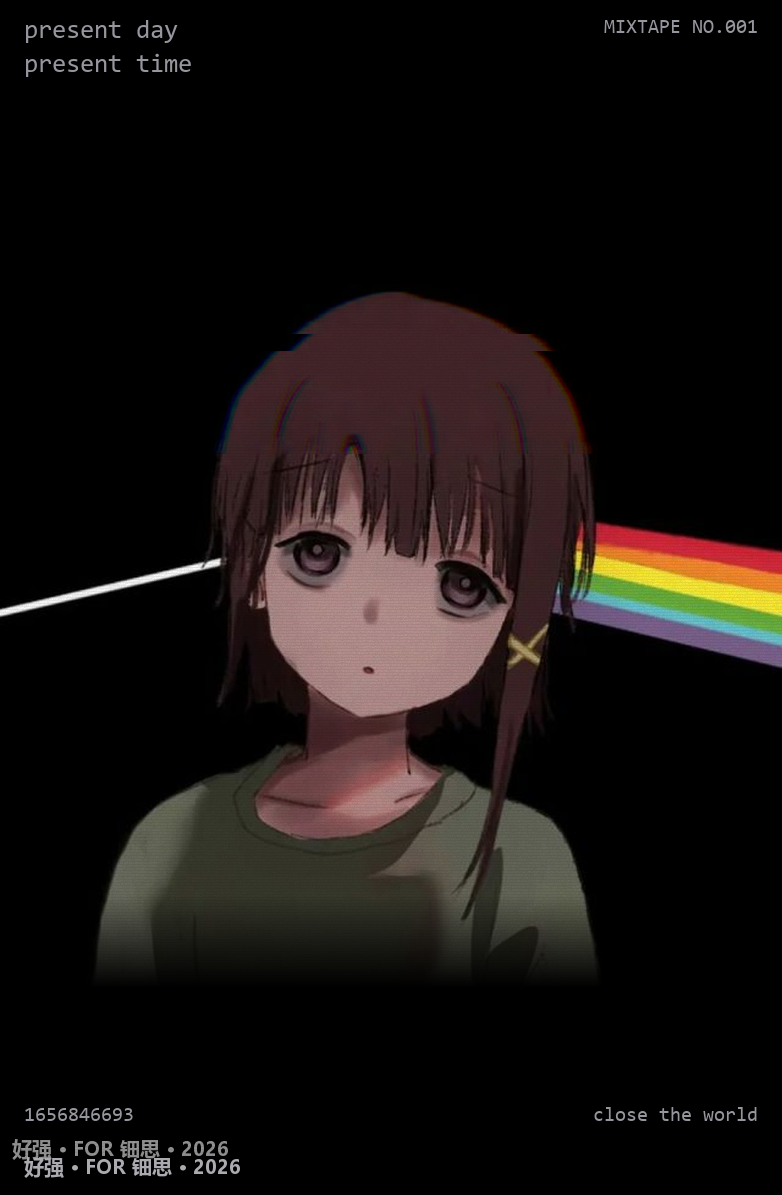
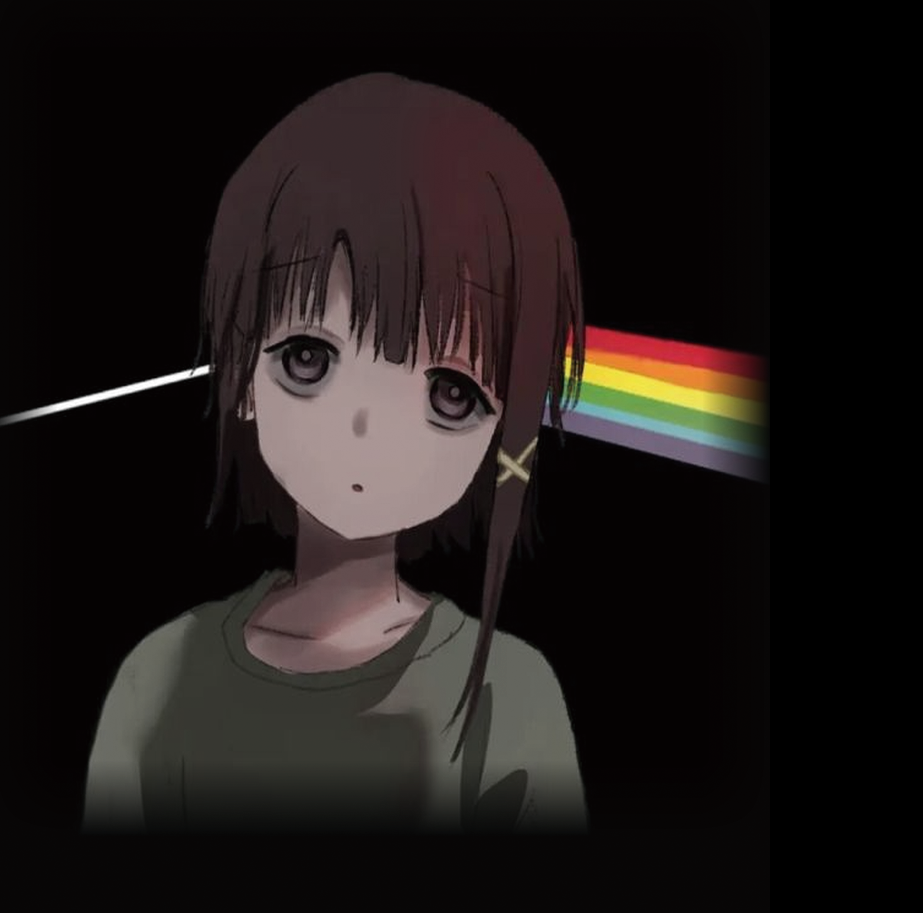
恢复真封面：草地纸飞机A/草地猫B（用户 PSD 原版），窗体几何回原版对齐

diff --git a/dist/app.js b/dist/app.js
@@ -29331,11 +29331,7 @@ void main() {
     const U = (u) => u * S;
     const art = LABEL_ART[face];
     if (art) {
-      {
-        const sc = Math.max(W / art.width, H / art.height);
-        const w = art.width * sc, h = art.height * sc;
-        g.drawImage(art, (W - w) / 2, (H - h) / 2, w, h);
-      }
+      g.drawImage(art, 0, 0, W, H);
       tooth(g, W, H, { seed: face === "A" ? 21 : 33, dark: 0.055, light: 0.045 });
       grain(g, W, H, 0.028, face === "A" ? 9 : 17);
       if (face === "A") {
@@ -29599,7 +29595,7 @@ void main() {
     // plate thickness / bevel
     wall: 0.3,
     labelInset: 0.26,
-    win: { hw: 3.17, hz0: -1.72, hz1: 0.7, r: 0.3 },
+    win: { hw: 3.5, hz0: -1.85, hz1: 1.65, r: 0.26 },
     hub: { x: 2.15, z: -0.3, r: 0.62, h: 0.88 },
     tapeW: 0.381,
     guide: { x: 1.78, z: 2.42, r: 0.085 },

diff --git a/dist/scene3d.js b/dist/scene3d.js
@@ -29331,11 +29331,7 @@ void main() {
     const U = (u) => u * S;
     const art = LABEL_ART[face];
     if (art) {
-      {
-        const sc = Math.max(W / art.width, H / art.height);
-        const w = art.width * sc, h = art.height * sc;
-        g.drawImage(art, (W - w) / 2, (H - h) / 2, w, h);
-      }
+      g.drawImage(art, 0, 0, W, H);
       tooth(g, W, H, { seed: face === "A" ? 21 : 33, dark: 0.055, light: 0.045 });
       grain(g, W, H, 0.028, face === "A" ? 9 : 17);
       if (face === "A") {
@@ -29599,7 +29595,7 @@ void main() {
     // plate thickness / bevel
     wall: 0.3,
     labelInset: 0.26,
-    win: { hw: 3.17, hz0: -1.72, hz1: 0.7, r: 0.3 },
+    win: { hw: 3.5, hz0: -1.85, hz1: 1.65, r: 0.26 },
     hub: { x: 2.15, z: -0.3, r: 0.62, h: 0.88 },
     tapeW: 0.381,
     guide: { x: 1.78, z: 2.42, r: 0.085 },

diff --git a/src/textures.js b/src/textures.js
@@ -1034,11 +1034,7 @@ export function labelTexture(face = 'A', { title = '', artist = '', album = '', 
 
   if (art) {
     // ---- the sticker itself: 按单枚原始比例 contain 贴在壳面正中（圆角与胶囊窗镂空保留）
-    {
-      const sc = Math.max(W / art.width, H / art.height);
-      const w = art.width * sc, h = art.height * sc;
-      g.drawImage(art, (W - w) / 2, (H - h) / 2, w, h);
-    }
+    g.drawImage(art, 0, 0, W, H);
     // paper tooth and grain over the print, so it reads as paper stuck on shell
     tooth(g, W, H, { seed: face === 'A' ? 21 : 33, dark: .055, light: .045 });
     grain(g, W, H, .028, face === 'A' ? 9 : 17);

diff --git a/src/cassette.js b/src/cassette.js
@@ -15,7 +15,7 @@ export const DIM = {
   PT: 0.11, BV: 0.03,          // plate thickness / bevel
   wall: 0.30,
   labelInset: 0.26,
-  win: { hw: 3.17, hz0: -1.72, hz1: 0.70, r: 0.30 },
+  win: { hw: 3.50, hz0: -1.85, hz1: 1.65, r: 0.26 },
   hub: { x: 2.15, z: -0.30, r: 0.62, h: 0.88 },
   tapeW: 0.381,
   guide: { x: 1.78, z: 2.42, r: 0.085 },
